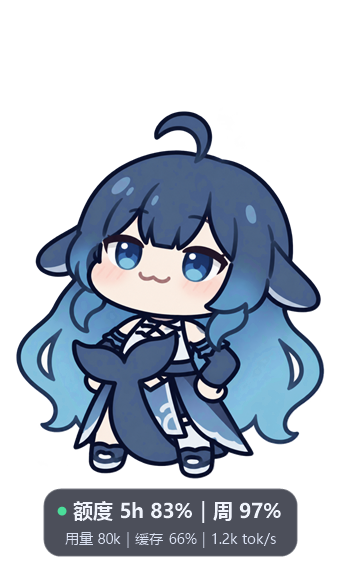
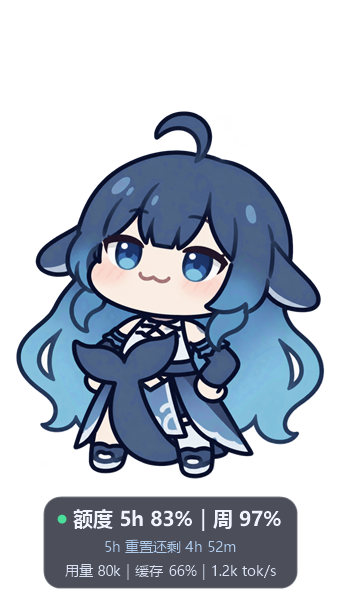
Show the next official Codex quota reset countdown

diff --git a/README.md b/README.md
@@ -32,6 +32,7 @@
 - **拖动 & 记忆**：按住角色任意位置拖走，位置写进 `pet-state.json`，重启回到原处
 - **不抢焦点**：默认开启，点击和拖动时保留当前窗口的输入焦点；右键「不抢焦点」可关闭，选择会被记住
 - **始终置顶**：默认开启；右键取消勾选「始终置顶」后，桌宠可被游戏或其他窗口盖住，再次勾选恢复置顶，选择会被记住。切换时无需重启，也不会增加后台轮询
+- **额度重置倒计时**：官方 Codex 额度下方显示最早重置窗口的剩余时间，例如「5h 重置还剩 4h 52m」或「周 重置还剩 2d 3h 8m」；各窗口的准确北京时间可在账户详情中查看。倒计时独立于用量行，使用已查询的数据本地更新，不增加额度请求。时间已到但官方数据尚未更新时提示等待刷新；接口未提供重置时间时明确提示不可用。API 金额余额不显示倒计时
 - **点击**：冒一句台词 + 摸头表情 + 立刻查一次余额；右键「打个招呼」时显示抱鲸表情
 - **19 个形象轮换**：右键「换个形象」按文件名顺序切换，选择会被记住；新增六张素材也能手动选择
 - **状态素材**：闲置 45 秒显示杯中鲸，闲置超过打盹阈值后切到躺睡姿势，配合轻微呼吸和上浮淡出的 `Zzz`。API 余额偏低时显示举碗讨饭，官方额度耗尽时显示空碗伸手；查询失败显示担心脸。任务进行中仍优先写字。素材来源、修复范围和提示词见 [素材说明](docs/artwork.md)
